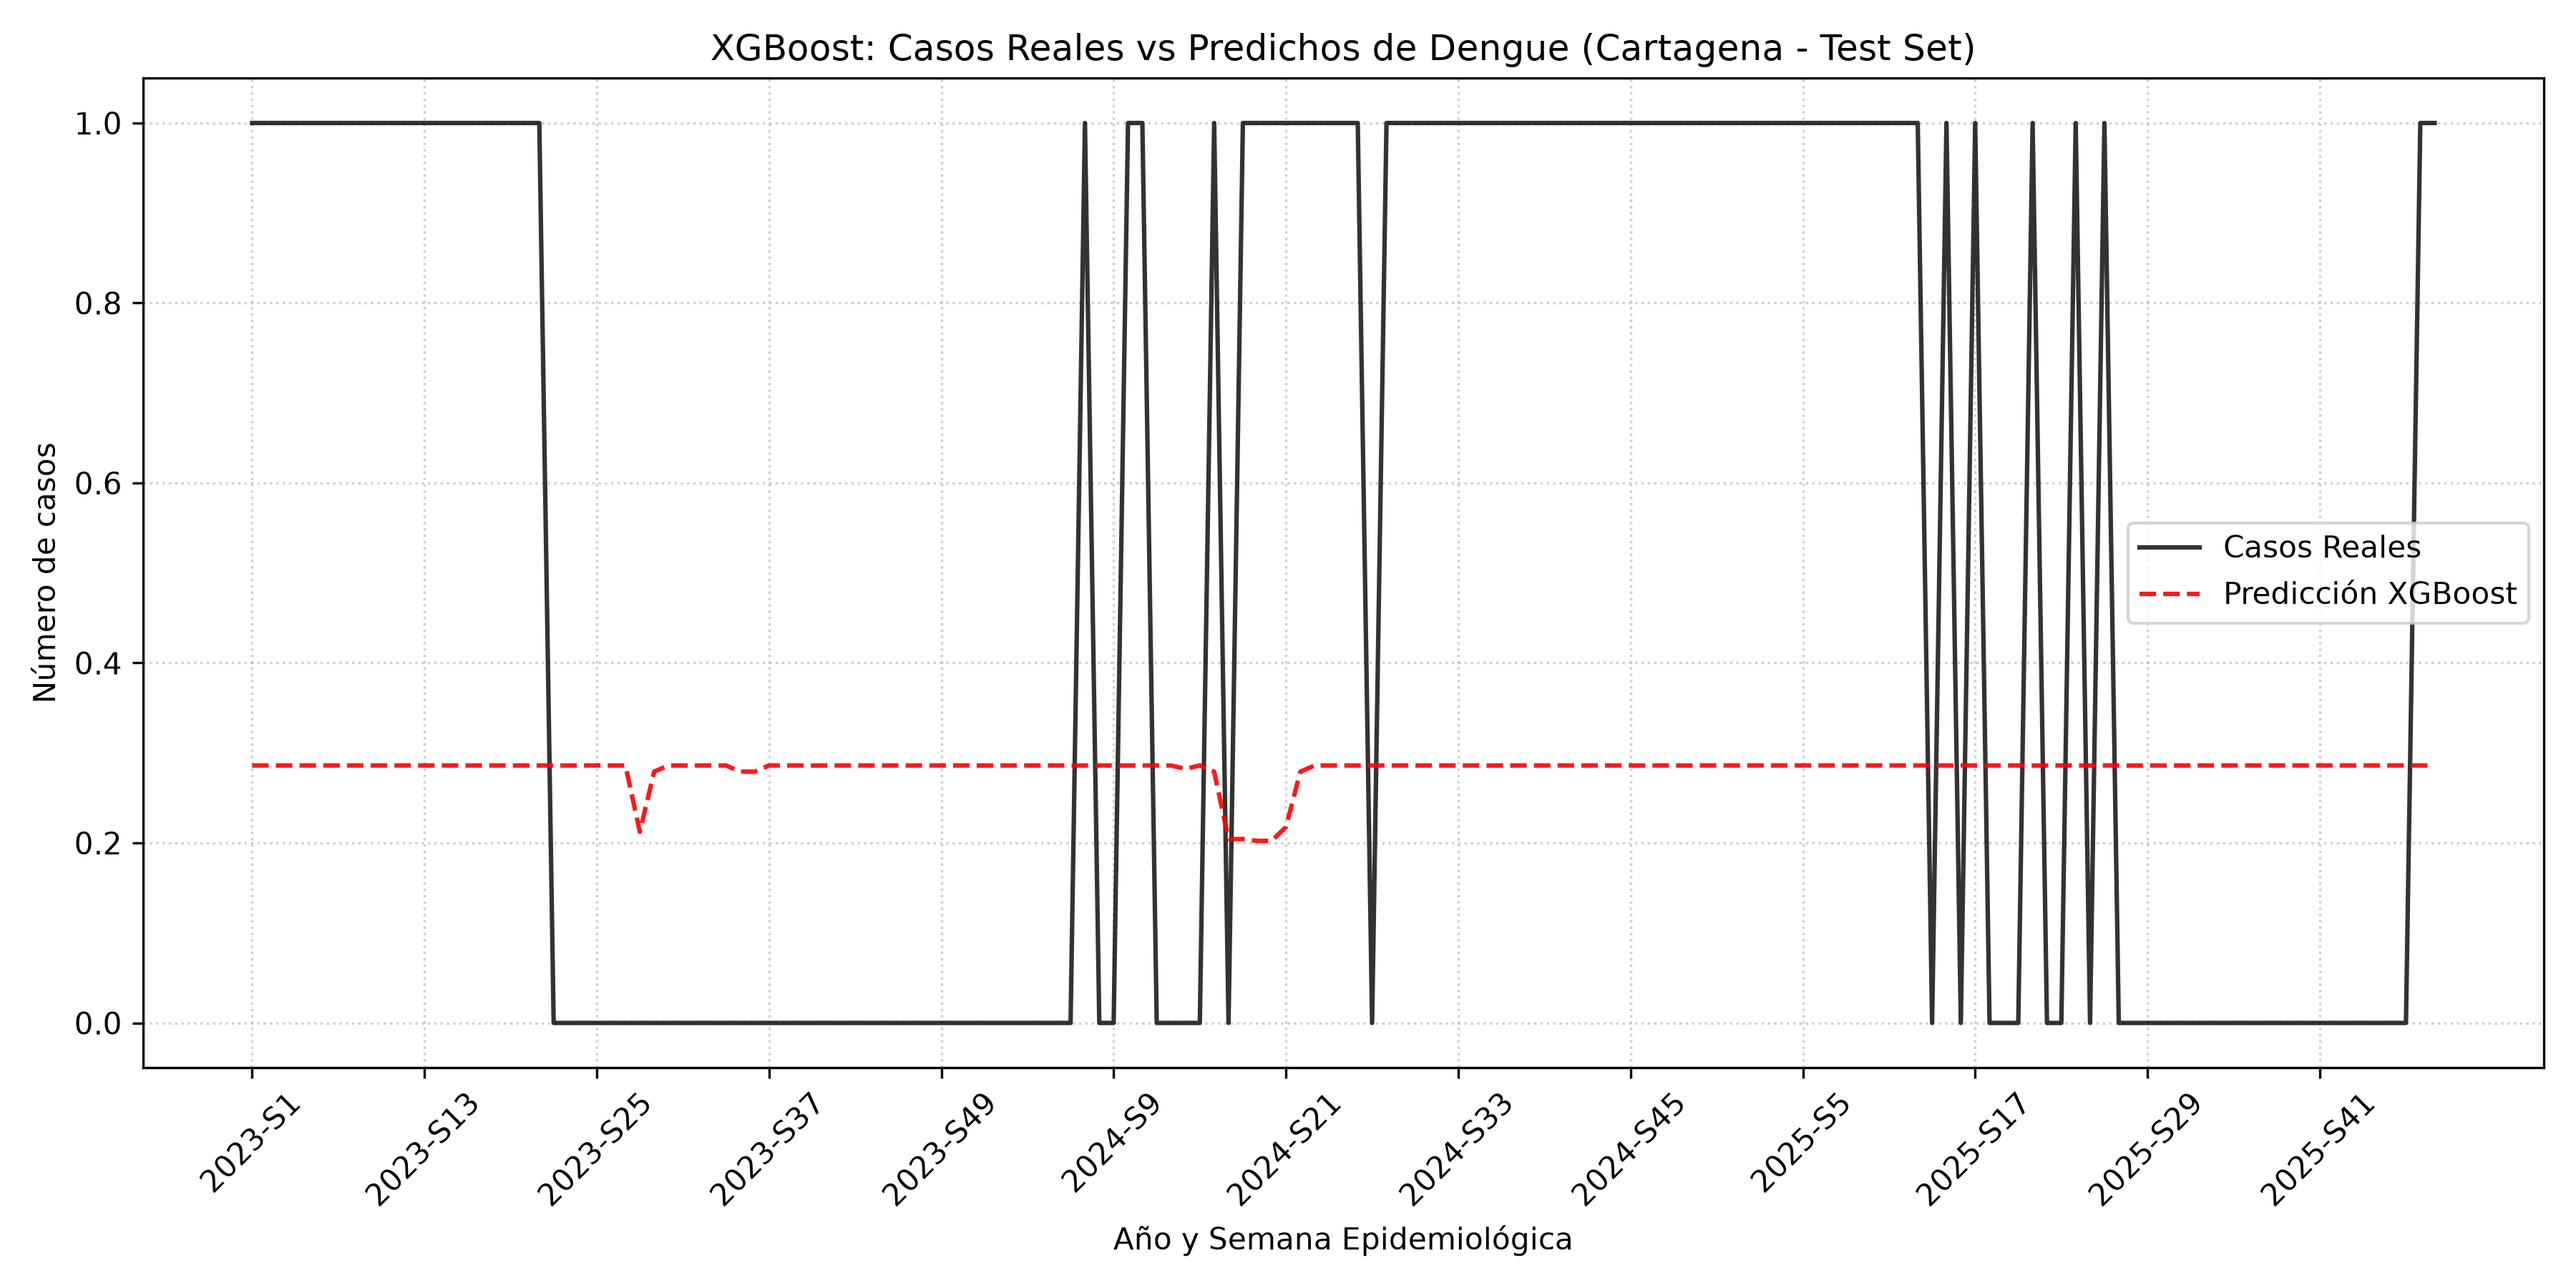
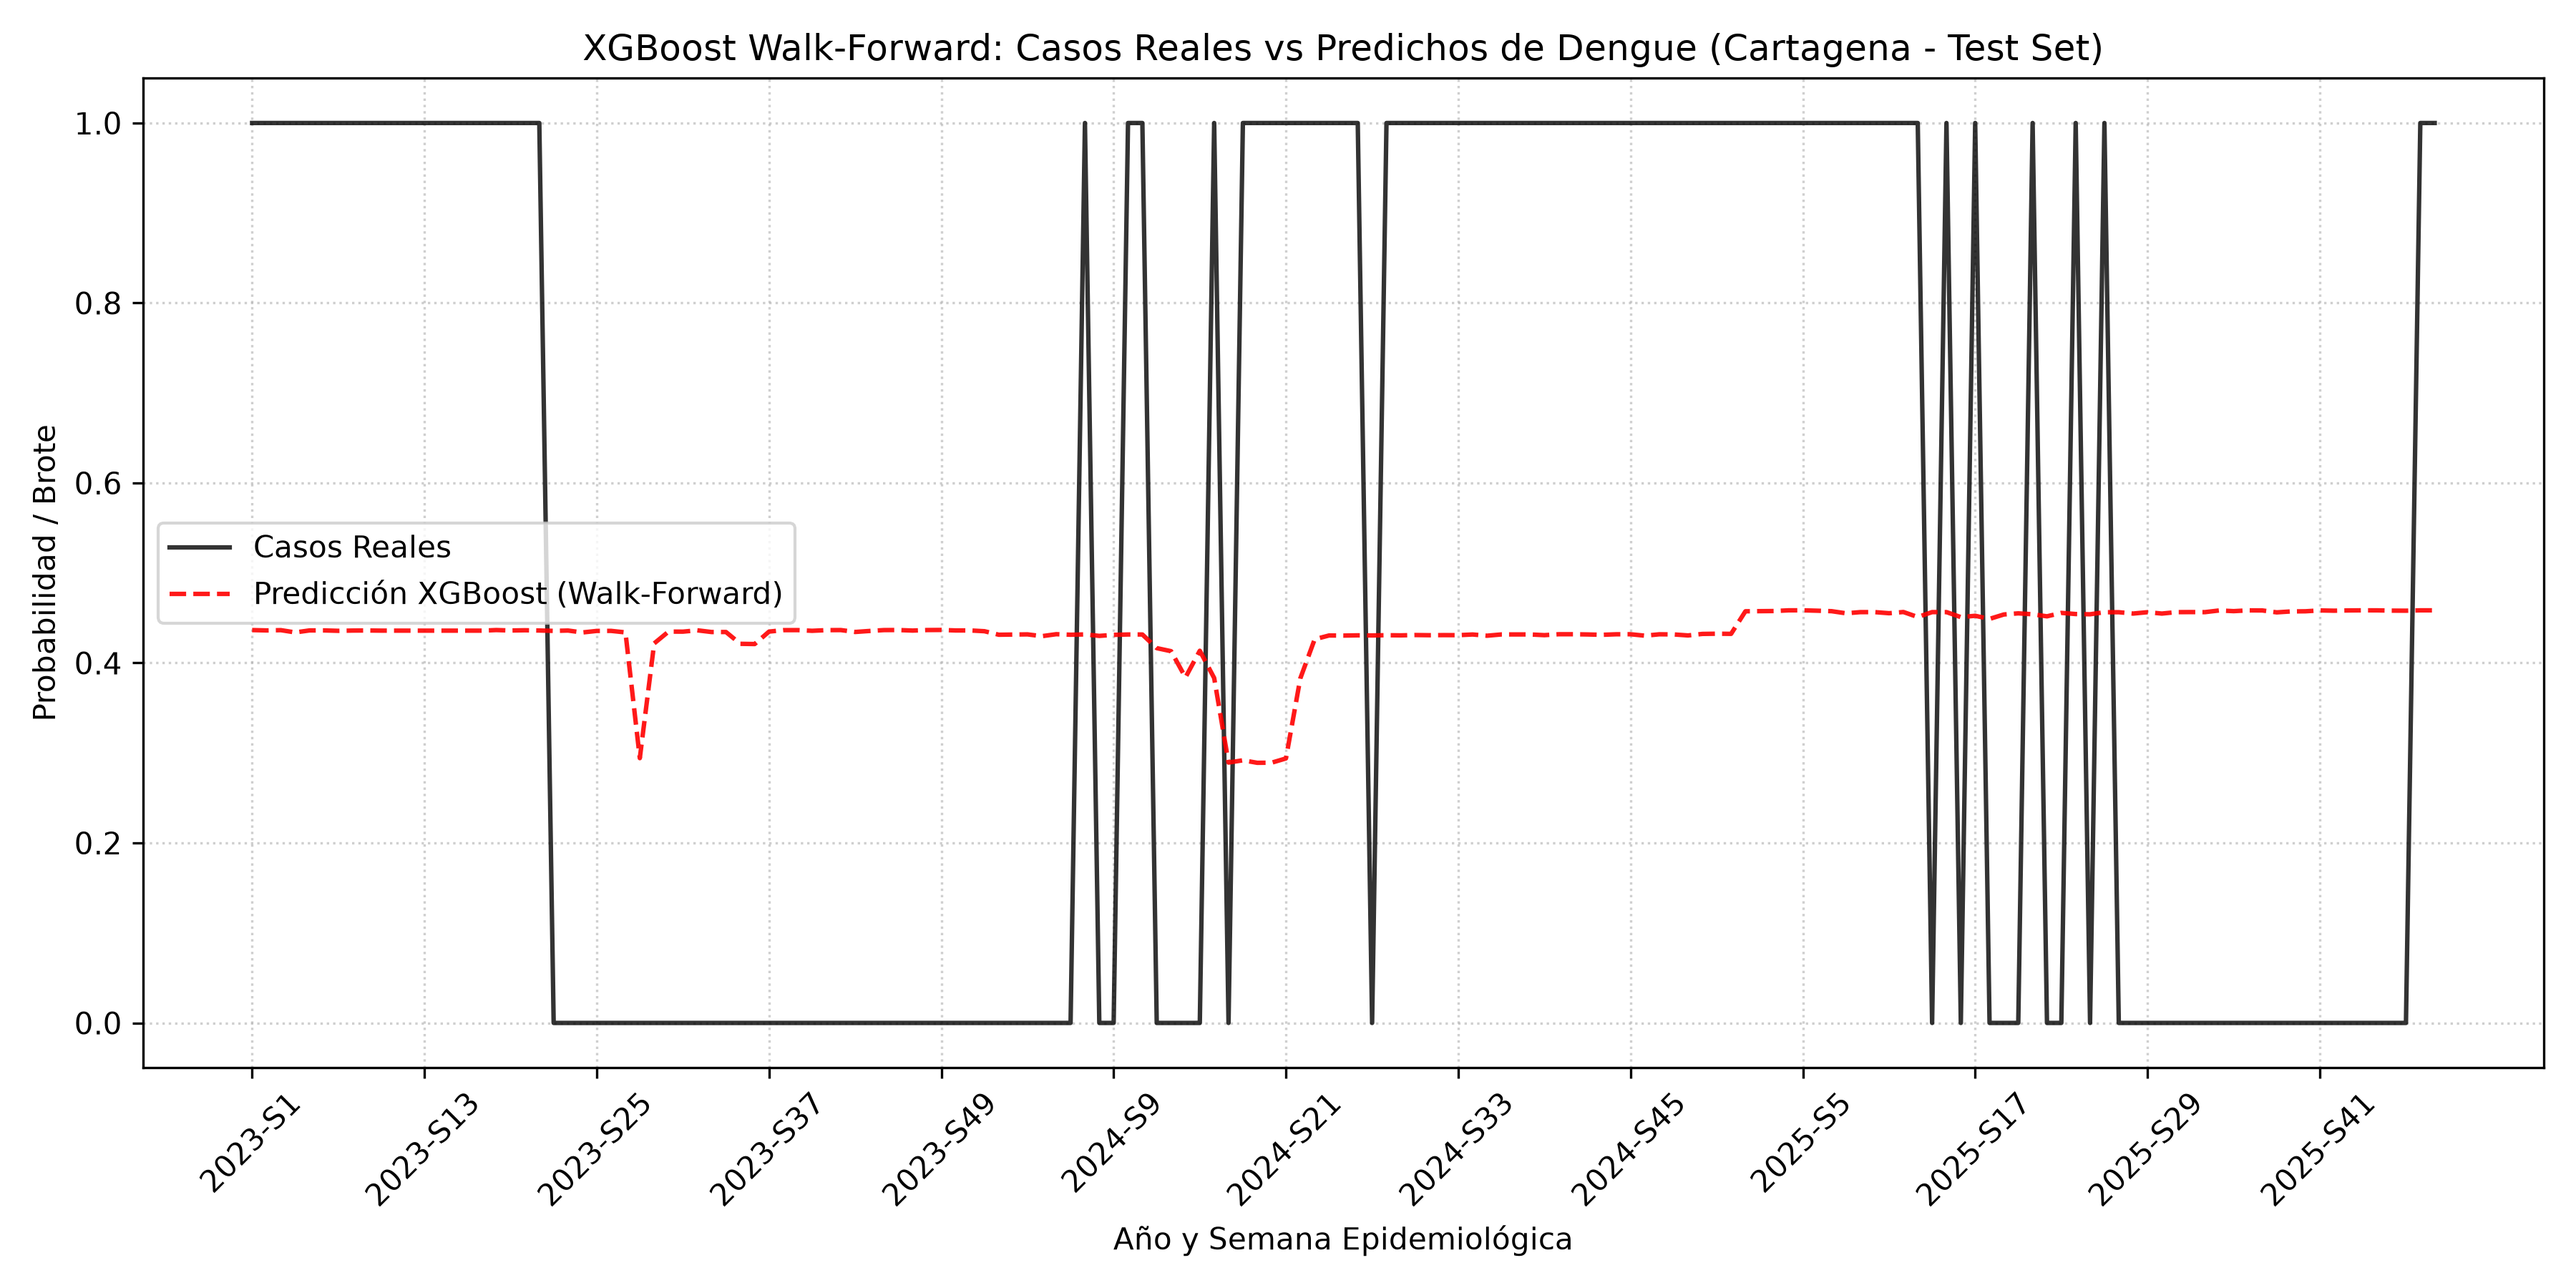
feat: implementar validación Walk-Forward en XGBoost

diff --git a/src/models/train_xgboost.py b/src/models/train_xgboost.py
@@ -101,114 +101,107 @@ def entrenar_modelo_xgboost():
     X = df[features]
     y = df[target]
     
-    # Partición cronológica por años: los hiperparámetros se ajustan con validación;
-    # prueba se reserva para la evaluación final.
+    # ---------------------------------------------------------
+    # VALIDACIÓN WALK-FORWARD (VENTANA DESLIZANTE ANUAL)
+    # ---------------------------------------------------------
     train_end_year = params.get("train_end_year", 2019)
     val_end_year = params.get("val_end_year", 2022)
-    mask_train = df["ANO"] <= train_end_year
-    mask_val = (df["ANO"] > train_end_year) & (df["ANO"] <= val_end_year)
-    mask_test = df["ANO"] > val_end_year
-
-    X_train, y_train = X[mask_train], y[mask_train]
-    X_val, y_val = X[mask_val], y[mask_val]
-    X_test, y_test = X[mask_test], y[mask_test]
-
-    df_test = df[mask_test].copy()
-
-    def rango(mask):
-        d = df[mask]
-        return f"{int(d['ANO'].iloc[0])}-S{int(d['SEMANA'].iloc[0])} a {int(d['ANO'].iloc[-1])}-S{int(d['SEMANA'].iloc[-1])}"
-
-    print(f"Entrenamiento: {len(X_train)} semanas ({rango(mask_train)})")
-    print(f"Validación:    {len(X_val)} semanas ({rango(mask_val)})")
-    print(f"Prueba (Test): {len(X_test)} semanas ({rango(mask_test)})")
+    test_years = sorted(df[df["ANO"] > val_end_year]["ANO"].unique())
     
-    # Inicializar y entrenar XGBoost Regressor
-
-    # Calcular dinámicamente el peso para desbalance de clases en train
-    class_counts = y_train.value_counts()
-    # scale_pos = class_counts.get(0, 1) / class_counts.get(1, 1)
-    scale_pos = 1.0  # Desactivado (peso neutral) para reducir Falsos Positivos en hiperendemia
-    model = xgb.XGBClassifier(
-        n_estimators=params.get("n_estimators", 80),
-        learning_rate=params.get("learning_rate", 0.03),
-        max_depth=params.get("max_depth", 2),
-        min_child_weight=params.get("min_child_weight", 5),
-        reg_alpha=params.get("reg_alpha",2.0),
-        reg_lambda=params.get("reg_lambda", 2.0),
-        random_state=params.get("random_state", 42),
-        subsample=params.get("subsample", 0.7),
-        colsample_bytree=params.get("colsample_bytree", 0.7),
-        scale_pos_weight=scale_pos,
-        objective="binary:logistic"
-    )
+    print(f"Iniciando Walk-Forward Validation para los años: {test_years}")
     
-    model.fit(X_train, y_train)
+    all_y_test_real = []
+    all_y_test_pred = []
+    df_test_predictions = pd.DataFrame()
     
-    # Guardar modelo entrenado
+    # Calcular dinámicamente el peso para desbalance de clases (lo dejamos neutral como acordamos)
+    scale_pos = 1.0  
+    
+    # Guardaremos el último modelo entrenado
+    last_model = None
+    
+    for test_year in test_years:
+        print(f"\n--- Entrenando para predecir el año {test_year} ---")
+        # El conjunto de entrenamiento incluye TODO hasta el año anterior al de prueba actual
+        mask_train = df["ANO"] < test_year
+        mask_test_current = df["ANO"] == test_year
+        
+        X_train_wf, y_train_wf = X[mask_train], y[mask_train]
+        X_test_wf, y_test_wf = X[mask_test_current], y[mask_test_current]
+        
+        print(f"Entrenamiento: {len(X_train_wf)} semanas (Hasta {test_year-1})")
+        print(f"Prueba:        {len(X_test_wf)} semanas (Solo {test_year})")
+        
+        model = xgb.XGBClassifier(
+            n_estimators=params.get("n_estimators", 80),
+            learning_rate=params.get("learning_rate", 0.03),
+            max_depth=params.get("max_depth", 2),
+            min_child_weight=params.get("min_child_weight", 5),
+            reg_alpha=params.get("reg_alpha", 2.0),
+            reg_lambda=params.get("reg_lambda", 2.0),
+            random_state=params.get("random_state", 42),
+            subsample=params.get("subsample", 0.7),
+            colsample_bytree=params.get("colsample_bytree", 0.7),
+            scale_pos_weight=scale_pos,
+            objective="binary:logistic"
+        )
+        
+        model.fit(X_train_wf, y_train_wf)
+        last_model = model
+        
+        # Predicciones de este año
+        y_pred_proba_wf = model.predict_proba(X_test_wf)[:, 1]
+        
+        # Guardar resultados
+        all_y_test_real.extend(y_test_wf.values)
+        all_y_test_pred.extend(y_pred_proba_wf)
+        
+        # Añadir al df de predicciones para el gráfico
+        df_test_year = df[mask_test_current].copy()
+        df_test_year["prediccion"] = y_pred_proba_wf
+        df_test_predictions = pd.concat([df_test_predictions, df_test_year])
+        
+        auc_year = roc_auc_score(y_test_wf, y_pred_proba_wf)
+        print(f"ROC-AUC para {test_year}: {auc_year:.4f}")
+        
+    # Guardar el último modelo entrenado (el que ya vio hasta 2024 para predecir 2025)
     model_path = MODELS_DIR / "xgboost_model.json"
-    model.save_model(model_path)
-    print(f"Modelo guardado en: {model_path}")
+    last_model.save_model(model_path)
+    print(f"\nÚltimo modelo (Walk-Forward) guardado en: {model_path}")
     
-    # Predicciones
-    #y_pred_train = model.predict(X_train)
-    #y_pred_val = model.predict(X_val)
-    #y_pred_test = model.predict(X_test)
-
-    # Predicciones de probabilidad
-    y_pred_train = model.predict_proba(X_train)[:, 1]
-    y_pred_val = model.predict_proba(X_val)[:, 1]
-    y_pred_test = model.predict_proba(X_test)[:, 1]
-
-    # Métricas
-    #rmse_train = float(np.sqrt(mean_squared_error(y_train, y_pred_train)))
-    #mae_train = float(mean_absolute_error(y_train, y_pred_train))
-
-    #rmse_val = float(np.sqrt(mean_squared_error(y_val, y_pred_val)))
-    #mae_val = float(mean_absolute_error(y_val, y_pred_val))
-
-    #rmse_test = float(np.sqrt(mean_squared_error(y_test, y_pred_test)))
-    #mae_test = float(mean_absolute_error(y_test, y_pred_test))
-
-    # Métrica de rendimiento principal para alertas tempranas
-    roc_train = float(roc_auc_score(y_train, y_pred_train))
-    roc_val = float(roc_auc_score(y_val, y_pred_val))
-    roc_test = float(roc_auc_score(y_test, y_pred_test))
-
+    # ---------------------------------------------------------
+    # MÉTRICAS GLOBALES DEL EXPERIMENTO WALK-FORWARD
+    # ---------------------------------------------------------
+    roc_test_global = float(roc_auc_score(all_y_test_real, all_y_test_pred))
+    
     print("\n" + "-" * 50)
-    print("DIAGNÓSTICO DE CLASIFICACIÓN (ALERTA DE BROTE T+4):")
+    print("DIAGNÓSTICO DE CLASIFICACIÓN (WALK-FORWARD T+4):")
     print("-" * 50)
-    print(f"Entrenamiento -> ROC-AUC: {roc_train:.4f}")
-    print(f"Validación    -> ROC-AUC: {roc_val:.4f}")
-    print(f"Prueba (Test) -> ROC-AUC: {roc_test:.4f}")
+    print(f"Prueba Global Acumulada (Test) -> ROC-AUC: {roc_test_global:.4f}")
 
     # Guardar métricas en JSON para DVC
     metrics = {
-        "roc_auc_train": roc_train,
-        "roc_auc_val": roc_val,
-        "roc_auc_test": roc_test
+        "roc_auc_test_walk_forward": roc_test_global
     }
     with open(METRICS_PATH, "w", encoding="utf-8") as f:
         json.dump(metrics, f, indent=4)
     print(f"Métricas guardadas en: {METRICS_PATH}")
     
-    # Importancia de características
-    importances = pd.Series(model.feature_importances_, index=features).sort_values(ascending=False)
+    # Importancia de características (del último modelo)
+    importances = pd.Series(last_model.feature_importances_, index=features).sort_values(ascending=False)
     print("\n" + "-" * 40)
-    print("TOP 10 CARACTERÍSTICAS MÁS IMPORTANTES:")
+    print("TOP 10 CARACTERÍSTICAS MÁS IMPORTANTES (Último Modelo):")
     print("-" * 40)
     print(importances.head(10))
     
     # Gráfico
-    df_test["prediccion"] = y_pred_test
-    
     plt.figure(figsize=(12, 6))
-    plt.plot(df_test["ANO"].astype(str) + "-S" + df_test["SEMANA"].astype(str), df_test[target], label="Casos Reales", color="black", alpha=0.8)
-    plt.plot(df_test["ANO"].astype(str) + "-S" + df_test["SEMANA"].astype(str), df_test["prediccion"], label="Predicción XGBoost", color="red", linestyle="--", alpha=0.9)
-    plt.xticks(rotation=45, ticks=range(0, len(df_test), max(1, len(df_test)//12)))
-    plt.title("XGBoost: Casos Reales vs Predichos de Dengue (Cartagena - Test Set)")
+    plt.plot(df_test_predictions["ANO"].astype(str) + "-S" + df_test_predictions["SEMANA"].astype(str), df_test_predictions[target], label="Casos Reales", color="black", alpha=0.8)
+    plt.plot(df_test_predictions["ANO"].astype(str) + "-S" + df_test_predictions["SEMANA"].astype(str), df_test_predictions["prediccion"], label="Predicción XGBoost (Walk-Forward)", color="red", linestyle="--", alpha=0.9)
+    plt.xticks(rotation=45, ticks=range(0, len(df_test_predictions), max(1, len(df_test_predictions)//12)))
+    plt.title("XGBoost Walk-Forward: Casos Reales vs Predichos de Dengue (Cartagena - Test Set)")
     plt.xlabel("Año y Semana Epidemiológica")
-    plt.ylabel("Número de casos")
+    plt.ylabel("Probabilidad / Brote")
     plt.legend()
     plt.grid(True, linestyle=":", alpha=0.6)
     plt.tight_layout()
@@ -218,7 +211,7 @@ def entrenar_modelo_xgboost():
     print(f"\nGráfico guardado en: {fig_path}")
     plt.close()
     
-    return model, roc_test
+    return last_model, roc_test_global
 
 
 if __name__ == "__main__":

diff --git a/memoria_tesis.md b/memoria_tesis.md
@@ -73,3 +73,13 @@ El modelo de clasificación binaria ("Brote" vs "Normal") requería un **umbral 
   * **Resultados Clínicos:** El entrenamiento mejoró sustancialmente (Train AUC: 0.98, Val AUC: 0.76). La red logró converger de manera mucho más estable y aprender la dinámica general de los datos históricos. 
   * **Conclusión Final de Modelado (El Límite del Clima):** A pesar de la mejora técnica en la red LSTM, el AUC en el conjunto hiperendémico de Prueba (2023-2025) volvió a caer a `0.40`. Esto consolida de manera irrefutable nuestro hallazgo anterior: **Durante una fase hiperendémica prolongada, la señal climática y el historial de casos a mediano plazo (T+4) pierden su capacidad predictiva frente a umbrales móviles.** El ecosistema ya está tan saturado que el inicio de un nuevo pico no depende de las lluvias de hace 4 semanas, sino de dinámicas complejas que escapan a este conjunto de datos. 
   * **Siguientes Pasos (Expansión Espacial):** Concluido el análisis exhaustivo en Cartagena, la tesis debe avanzar hacia la validación de estos modelos en municipios con dinámicas diferentes (Magangué, El Carmen de Bolívar, etc.) para comprobar si la predicción climática es viable en entornos no hiperendémicos.
+
+## 9. Validación Walk-Forward (Re-entrenamiento Continuo en Hiperendemia)
+* **Planteamiento:** Se cuestionó si el colapso del modelo en la fase hiperendémica (2023-2025) se debía a la "Fuga de Datos Estática". Es decir, el modelo entrenado hasta 2022 quedó obsoleto. Para remediarlo, se implementó en `train_xgboost.py` una validación **Walk-Forward (Ventana Deslizante)**.
+* **Mecánica:** El modelo se re-entrenó año tras año. Entrenó hasta 2022 para predecir 2023; luego ingirió los datos de 2023, se re-entrenó y predijo 2024; etc.
+* **Resultados Clínicos:**
+  * **2023 (ROC-AUC 0.63):** Al predecir el primer año de hiperendemia, el modelo mejoró su ordenamiento local frente a la partición estática.
+  * **2024 (ROC-AUC 0.62):** Tras aprender de 2023, mantuvo un ordenamiento local aceptable.
+  * **2025 (ROC-AUC 0.52):** La variabilidad climática extrema hizo colapsar de nuevo la precisión.
+  * **El Hallazgo Paradójico (AUC Global: 0.40):** Aunque dentro de cada año el modelo puede ordenar moderadamente bien el riesgo, al juntar las predicciones de los 3 años, el AUC global se desploma a `0.40`. ¿Por qué? Porque al re-entrenarse cada año con más datos hiperendémicos, **la escala absoluta de las probabilidades se desfasa**. Un 70% de probabilidad en 2023 no significa lo mismo que un 70% en 2025. 
+* **Corolario para el Sistema de Alerta:** Un sistema que se re-entrena continuamente (Walk-Forward) requiere **umbrales de decisión dinámicos**. Un umbral fijo (Índice de Youden calculado en 2022) dejará de funcionar en 2024 porque el modelo recalibró sus probabilidades.
